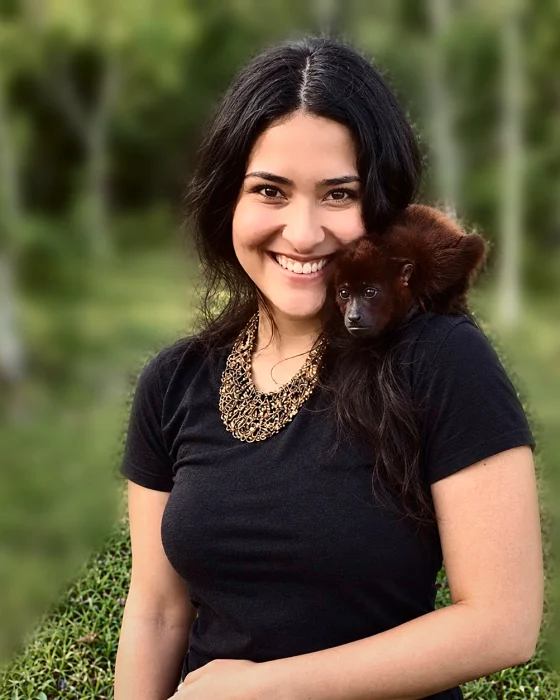
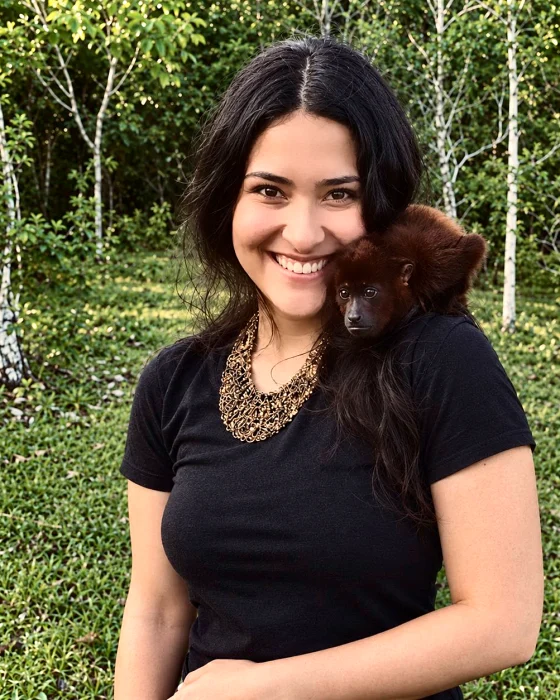
Sobre mí: sin desenfoque de fondo y la sección alineada
El retrato conserva su escena: se quita el desenfoque del fondo. Queda
el suavizado de piel (sin tocar ojos, cejas ni boca), el revelado de
contraste y color y un enfoque suave. Marco limpio de esquinas
redondeadas, sin aura ni garabatos encima de la foto.

Los territorios pasan de la onda desalineada a una fila pareja de cinco,
misma proporción y rótulos a la misma altura. Se retira el hilo que los
enhebraba: estorbaba más de lo que aportaba.

Claude-Session: https://claude.ai/code/session_01FtV5TDKAqyDZk5XFcFsNSt

Changed region(s): [[0.0, 0.0, 1.0, 1.0], [0.3036, 0.96, 0.425, 1.0]]

diff --git a/site/assets/styles.css b/site/assets/styles.css
@@ -360,64 +360,29 @@ button { font: inherit; color: inherit; }
 .sobre { background: var(--niebla); }
 .sobre__rejilla { display: grid; grid-template-columns: minmax(0, 330px) minmax(0, 1fr); gap: clamp(28px, 5vw, 70px); align-items: center; }
 
-/* Retrato: el aura de la marca detrás y los trazos a mano alrededor */
+/* Retrato: marco limpio, sin adornos encima de la foto */
 .retrato { position: relative; margin: 0; }
-.retrato__aura {
-  position: absolute; inset: -14% -10% -6% -14%; border-radius: 50%; z-index: 0;
-  background-image:
-    radial-gradient(circle at 68% 32%, var(--indigo), transparent 55%),
-    radial-gradient(circle at 28% 72%, var(--polen), transparent 52%),
-    radial-gradient(circle at 70% 78%, var(--rio), transparent 58%),
-    radial-gradient(circle at 30% 26%, var(--brote), transparent 56%);
-  filter: blur(74px) saturate(1.05); opacity: .3;
-}
 .retrato__marco {
-  position: relative; z-index: 2; display: block; overflow: hidden;
-  border-radius: 999px 999px var(--radio-g) var(--radio-g);
-  border: 1px solid rgba(255, 255, 255, .85);
-  box-shadow: 0 26px 56px rgba(10, 40, 28, .18);
+  display: block; overflow: hidden; border-radius: var(--radio-g);
+  box-shadow: 0 22px 48px rgba(10, 40, 28, .16), 0 2px 8px rgba(10, 40, 28, .08);
 }
 .retrato__marco img { display: block; width: 100%; height: auto; }
-.retrato .trazo { z-index: 3; }
-.retrato .trazo--garabato { width: 40%; top: -11%; right: -17%; }
-.retrato .trazo--asterisco { width: 15%; bottom: 12%; left: -8%; }
 
-/* Territorios: cinco fotos enhebradas por el mismo hilo de la página */
+/* Territorios: una fila pareja, alineada, con el rótulo a la misma altura */
 .territorios { margin-top: clamp(44px, 5vw, 72px); }
-.territorios__linea { font-size: 12px; letter-spacing: .22em; text-transform: uppercase; color: var(--rio); margin-bottom: clamp(18px, 2.4vw, 28px); }
-.territorios__pista { position: relative; }
-.territorios__hilo { position: absolute; inset: 0; width: 100%; height: 100%; pointer-events: none; z-index: 0; overflow: visible; }
-.territorios__hilo .hilo-base { fill: none; stroke: var(--linea); stroke-width: 1.5; stroke-linecap: round; }
-.territorios__hilo .hilo-luz {
-  fill: none; stroke: url(#g-agua); stroke-width: 2; stroke-linecap: round;
-  stroke-dasharray: 1; stroke-dashoffset: 1;
-  transition: stroke-dashoffset 1.6s var(--sale);
-  filter: drop-shadow(0 0 5px rgba(31, 163, 138, .4));
-}
-.territorios.visible .territorios__hilo .hilo-luz { stroke-dashoffset: 0; }
-.territorios__hilo .hilo-nodo {
-  fill: var(--rio); opacity: 0; transform-box: fill-box; transform-origin: center;
-  transition: opacity .5s var(--sale), r .4s var(--resorte);
-}
-.territorios.visible .territorios__hilo .hilo-nodo { opacity: 1; }
-
-.territorios__fotos { position: relative; z-index: 1; display: flex; gap: clamp(10px, 1.4vw, 18px); align-items: flex-start; }
-.territorio { position: relative; flex: 1 1 0; margin: 0; display: flex; flex-direction: column; gap: 18px; }
-/* La onda: cada foto se sienta a distinta altura, sobre el hilo */
-.territorio:nth-child(2) { margin-top: clamp(26px, 3.4vw, 52px); }
-.territorio:nth-child(3) { margin-top: clamp(6px, .8vw, 12px); }
-.territorio:nth-child(4) { margin-top: clamp(32px, 4vw, 62px); }
-.territorio:nth-child(5) { margin-top: clamp(12px, 1.6vw, 24px); }
+.territorios__linea { font-size: 12px; letter-spacing: .22em; text-transform: uppercase; color: var(--rio); margin-bottom: clamp(16px, 2vw, 22px); }
+.territorios__fotos { display: grid; grid-template-columns: repeat(5, minmax(0, 1fr)); gap: clamp(10px, 1.3vw, 16px); }
+.territorio { position: relative; margin: 0; display: flex; flex-direction: column; gap: 10px; }
 .territorio__marco {
   display: block; overflow: hidden; border-radius: var(--radio); aspect-ratio: 4/3;
   background: var(--linea);
-  box-shadow: 0 14px 30px rgba(10, 40, 28, .13);
+  box-shadow: 0 10px 24px rgba(10, 40, 28, .1);
   transition: transform .5s var(--resorte), box-shadow .5s var(--sale);
 }
 .territorio__marco img { display: block; width: 100%; height: 100%; object-fit: cover; transition: transform .9s var(--sale); }
-.territorio:hover .territorio__marco { transform: translateY(-6px) scale(1.03); box-shadow: 0 22px 44px rgba(10, 40, 28, .2); }
-.territorio:hover .territorio__marco img { transform: scale(1.07); }
-.territorio__lugar { font-size: 12px; letter-spacing: .1em; text-transform: uppercase; color: var(--tinta-3); transition: color .4s; }
+.territorio:hover .territorio__marco { transform: translateY(-5px); box-shadow: 0 20px 40px rgba(10, 40, 28, .18); }
+.territorio:hover .territorio__marco img { transform: scale(1.06); }
+.territorio__lugar { font-size: 11.5px; letter-spacing: .12em; text-transform: uppercase; color: var(--tinta-3); transition: color .4s; }
 .territorio:hover .territorio__lugar { color: var(--selva); }
 .sobre__texto { display: flex; flex-direction: column; gap: 14px; }
 .sobre__texto > p:not(.parrafo-destacado) { color: var(--tinta-3); font-size: 1rem; max-width: 48ch; }
@@ -540,19 +505,16 @@ button { font: inherit; color: inherit; }
   .rutas__pie .btn { width: 100%; }
 
   .cifras { gap: 16px; }
-  .retrato { max-width: 270px; }
-  .retrato .trazo--garabato { width: 30%; top: -7%; right: -10%; }
-  .retrato .trazo--asterisco { width: 12%; }
+  .retrato { max-width: 280px; }
 
-  /* En celular los territorios se deslizan de lado y el hilo se retira */
-  .territorios__hilo { display: none; }
+  /* En celular la fila se desliza de lado */
   .territorios__fotos {
     display: flex; gap: 12px; overflow-x: auto; scroll-snap-type: x mandatory;
     margin-inline: calc(var(--gutter) * -1); padding: 4px var(--gutter) 14px;
     scrollbar-width: none; -webkit-overflow-scrolling: touch;
   }
   .territorios__fotos::-webkit-scrollbar { display: none; }
-  .territorio { flex: 0 0 62%; margin-top: 0 !important; scroll-snap-align: start; }
+  .territorio { flex: 0 0 62%; scroll-snap-align: start; }
 
   .barra-movil {
     display: grid; grid-template-columns: repeat(2, minmax(0, 1fr)); gap: 10px;
@@ -579,7 +541,5 @@ button { font: inherit; color: inherit; }
   .conector__luz { stroke-dashoffset: 0; }
   .conector__nodo { opacity: 1; }
   .trazo path { --dibuja: 0; }
-  .territorios__hilo .hilo-luz { stroke-dashoffset: 0; }
-  .territorios__hilo .hilo-nodo { opacity: 1; }
   .cortina { display: none; }
 }

diff --git a/site/assets/main.js b/site/assets/main.js
@@ -386,88 +386,6 @@
     });
   }
 
-  // 11b. EL HILO QUE ENHEBRA LOS TERRITORIOS ---------------------------
-  // Dibuja una curva suave que pasa por el centro de cada foto, con un
-  // nodo en cada una. Se calcula con las posiciones reales, así que
-  // funciona en cualquier ancho.
-  (function () {
-    var bloque = $("[data-territorios]");
-    if (!bloque) return;
-    var svg = $(".territorios__hilo", bloque);
-    var pista = $(".territorios__pista", bloque);
-    if (!svg || !pista) return;
-
-    var NS = "http://www.w3.org/2000/svg";
-
-    var curva = function (p) {
-      // Catmull-Rom convertida a Bézier: una curva que pasa por los puntos
-      if (p.length < 2) return "";
-      var d = "M" + p[0].x.toFixed(1) + " " + p[0].y.toFixed(1);
-      for (var i = 0; i < p.length - 1; i++) {
-        var p0 = p[i - 1] || p[i], p1 = p[i], p2 = p[i + 1], p3 = p[i + 2] || p2;
-        var c1x = p1.x + (p2.x - p0.x) / 6, c1y = p1.y + (p2.y - p0.y) / 6;
-        var c2x = p2.x - (p3.x - p1.x) / 6, c2y = p2.y - (p3.y - p1.y) / 6;
-        d += " C" + c1x.toFixed(1) + " " + c1y.toFixed(1) + "," +
-                    c2x.toFixed(1) + " " + c2y.toFixed(1) + "," +
-                    p2.x.toFixed(1) + " " + p2.y.toFixed(1);
-      }
-      return d;
-    };
-
-    var dibujar = function () {
-      var fotos = $$(".territorio", bloque);
-      if (!fotos.length || getComputedStyle(svg).display === "none") return;
-      var caja = pista.getBoundingClientRect();
-      if (caja.width < 10) return;
-
-      var puntos = fotos.map(function (f) {
-        var m = $(".territorio__marco", f) || f;
-        var r = m.getBoundingClientRect();
-        // El hilo corre por el borde inferior: ahí el nodo queda a la vista
-        return { x: r.left - caja.left + r.width / 2, y: r.bottom - caja.top + 8 };
-      });
-
-      // Extiende el hilo un poco más allá de la primera y la última foto
-      var inicio = { x: Math.max(0, puntos[0].x - caja.width * 0.11), y: puntos[0].y + 18 };
-      var fin = { x: Math.min(caja.width, puntos[puntos.length - 1].x + caja.width * 0.11),
-                  y: puntos[puntos.length - 1].y + 18 };
-      var todos = [inicio].concat(puntos, [fin]);
-      var d = curva(todos);
-
-      svg.setAttribute("viewBox", "0 0 " + caja.width.toFixed(0) + " " + caja.height.toFixed(0));
-      svg.innerHTML = "";
-
-      ["hilo-base", "hilo-luz"].forEach(function (clase) {
-        var path = document.createElementNS(NS, "path");
-        path.setAttribute("class", clase);
-        path.setAttribute("d", d);
-        path.setAttribute("pathLength", "1");
-        svg.appendChild(path);
-      });
-
-      puntos.forEach(function (pt, i) {
-        var c = document.createElementNS(NS, "circle");
-        c.setAttribute("class", "hilo-nodo");
-        c.setAttribute("cx", pt.x.toFixed(1));
-        c.setAttribute("cy", pt.y.toFixed(1));
-        c.setAttribute("r", "5");
-        c.style.transitionDelay = (i * 0.12 + 0.3) + "s";
-        svg.appendChild(c);
-        // Al pasar por una foto, su nodo crece
-        var f = fotos[i];
-        f.addEventListener("pointerenter", function () { c.setAttribute("r", "8"); });
-        f.addEventListener("pointerleave", function () { c.setAttribute("r", "5"); });
-      });
-    };
-
-    var tiempo;
-    var pedirDibujo = function () { clearTimeout(tiempo); tiempo = setTimeout(dibujar, 120); };
-    window.addEventListener("resize", pedirDibujo);
-    if (document.fonts && document.fonts.ready) document.fonts.ready.then(dibujar);
-    setTimeout(dibujar, 60);
-    setTimeout(dibujar, 700);
-  })();
-
   // 12. CIFRAS QUE CUENTAN ----------------------------------------------
   if (!reducido && "IntersectionObserver" in window) {
     var ioCifra = new IntersectionObserver(function (entradas) {

diff --git a/site/index.html b/site/index.html
@@ -362,9 +362,6 @@
   <div class="envoltura">
     <div class="sobre__rejilla">
       <figure class="retrato revela">
-        <span class="retrato__aura anim-respira" aria-hidden="true"></span>
-        <svg class="trazo trazo--garabato" aria-hidden="true" focusable="false"><use href="#g-garabato"/></svg>
-        <svg class="trazo trazo--asterisco" aria-hidden="true" focusable="false"><use href="#g-asterisco"/></svg>
         <span class="retrato__marco">
           <img src="/assets/gabriela-920.webp" srcset="/assets/gabriela-560.webp 560w, /assets/gabriela-920.webp 920w" sizes="(max-width: 860px) 62vw, 330px" width="920" height="1150" alt="Gabriela Jiménez en campo" loading="lazy" decoding="async">
         </span>
@@ -385,9 +382,7 @@
 
     <div class="territorios revela" data-territorios>
       <p class="territorios__linea">Territorios que he recorrido</p>
-      <div class="territorios__pista">
-        <svg class="territorios__hilo" aria-hidden="true" focusable="false"></svg>
-        <div class="territorios__fotos">
+      <div class="territorios__fotos">
           <figure class="territorio" style="--i:0">
             <span class="territorio__marco">
               <img src="/assets/fotos/gua-mavecure-rio-600.webp" srcset="/assets/fotos/gua-mavecure-rio-600.webp 600w, /assets/fotos/gua-mavecure-rio-900.webp 900w" sizes="(max-width: 760px) 62vw, 17vw" alt="Cerros de piedra sobre el río, en el Guainía" loading="lazy" decoding="async">
@@ -418,7 +413,6 @@
             </span>
             <figcaption class="territorio__lugar">Amazonas</figcaption>
           </figure>
-        </div>
       </div>
     </div>
   </div>

diff --git a/scripts/editar-retrato.py b/scripts/editar-retrato.py
@@ -1,7 +1,6 @@
 """Preedición del retrato de «Sobre mí».
-Busca el acabado de una cámara profesional: separación del fondo con
-desenfoque suave, piel suavizada sin perder los rasgos, y un revelado de
-contraste, color y viñeta discretos.
+Suaviza la textura de la piel sin tocar los rasgos y revela contraste y
+color. El fondo de la foto se respeta: no se desenfoca ni se recorta.
 
 Uso: python3 scripts/editar-retrato.py <foto-original>
 Salida: site/assets/gabriela-920.webp y -560.webp
@@ -168,26 +167,23 @@ def main():
         raise SystemExit("no pude abrir " + origen)
     h, w = bgr.shape[:2]
 
-    sujeto, cara = mascara_sujeto(bgr)
+    cara = buscar_cara(bgr)
+    if cara is None:
+        cara = (int(w * .37), int(h * .16), int(w * .26), int(w * .26))
 
-    # Fondo: desenfoque progresivo, como una apertura abierta
-    fondo = cv2.GaussianBlur(bgr, (0, 0), w * 0.011)
-    fondo = cv2.GaussianBlur(fondo, (0, 0), w * 0.006)
-    m = sujeto[..., None]
-    img = fondo.astype(np.float32) * (1 - m) + bgr.astype(np.float32) * m
+    # El fondo se deja como está: la foto conserva su escena.
+    img = bgr.astype(np.float32)
 
-    # Piel
+    # Piel: se suaviza la textura sin tocar ojos, cejas ni boca
     piel = mascara_piel(bgr, cara)
     img = suavizar_piel(np.clip(img, 0, 255).astype(np.uint8), piel)
 
-    # Revelado y viñeta
+    # Revelado
     img = revelar(img)
-    img = vineta(img, 0.22)
 
-    # Nitidez solo sobre el sujeto (los rasgos, no el fondo)
-    base = cv2.GaussianBlur(img, (0, 0), 1.6)
-    nitido = np.clip(img + (img - base) * 0.55, 0, 255)
-    img = img * (1 - m) + nitido * m
+    # Nitidez general, suave
+    base = cv2.GaussianBlur(img, (0, 0), 1.5)
+    img = np.clip(img + (img - base) * 0.42, 0, 255)
 
     final = np.clip(img, 0, 255).astype(np.uint8)
     os.makedirs(DESTINO, exist_ok=True)
@@ -211,8 +207,6 @@ def main():
         cv2.imwrite(ruta, chico, [cv2.IMWRITE_WEBP_QUALITY, 86])
         print(f"{os.path.basename(ruta)}  {chico.shape[1]}x{chico.shape[0]}  {os.path.getsize(ruta)//1024} KB")
 
-    cv2.imwrite("/tmp/claude-0/-home-claude/e25420f1-890b-596a-bb6c-070532ca213a/scratchpad/retrato-mascara.jpg",
-                (sujeto * 255).astype(np.uint8))
     print("cara detectada en", cara)
 
 

diff --git a/scripts/construir-pagina.py b/scripts/construir-pagina.py
@@ -382,9 +382,6 @@ def construir():
   <div class="envoltura">
     <div class="sobre__rejilla">
       <figure class="retrato revela">
-        <span class="retrato__aura anim-respira" aria-hidden="true"></span>
-        <svg class="trazo trazo--garabato" aria-hidden="true" focusable="false"><use href="#g-garabato"/></svg>
-        <svg class="trazo trazo--asterisco" aria-hidden="true" focusable="false"><use href="#g-asterisco"/></svg>
         <span class="retrato__marco">
           <img src="/assets/gabriela-920.webp" srcset="/assets/gabriela-560.webp 560w, /assets/gabriela-920.webp 920w" sizes="(max-width: 860px) 62vw, 330px" width="920" height="1150" alt="Gabriela Jiménez en campo" loading="lazy" decoding="async">
         </span>
@@ -402,11 +399,8 @@ def construir():
 
     <div class="territorios revela" data-territorios>
       <p class="territorios__linea">Territorios que he recorrido</p>
-      <div class="territorios__pista">
-        <svg class="territorios__hilo" aria-hidden="true" focusable="false"></svg>
-        <div class="territorios__fotos">
+      <div class="territorios__fotos">
 {territorios_html()}
-        </div>
       </div>
     </div>
   </div>
